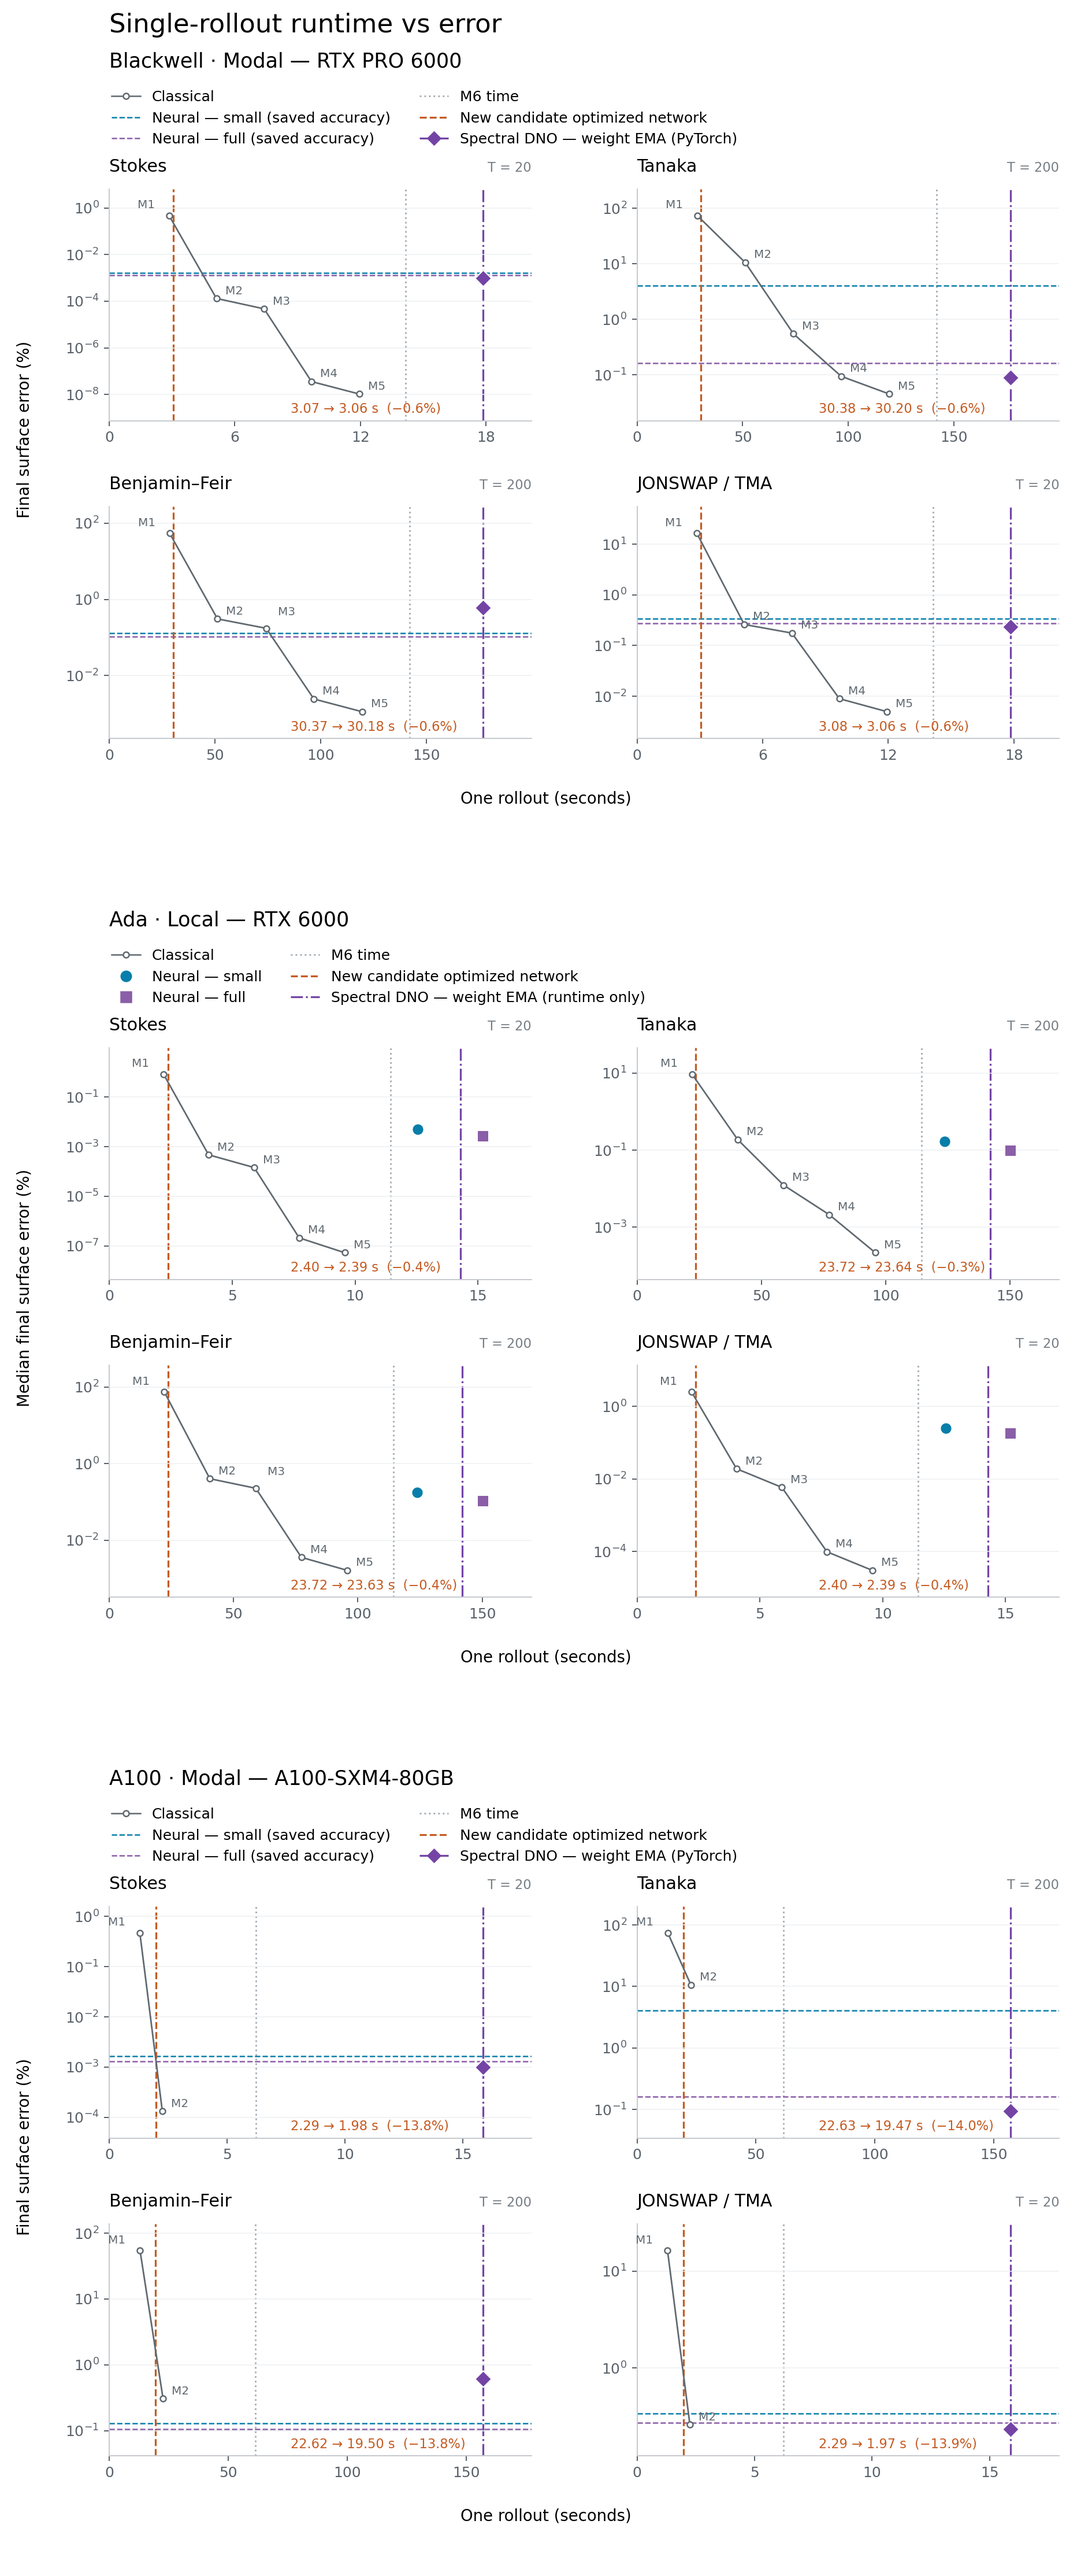
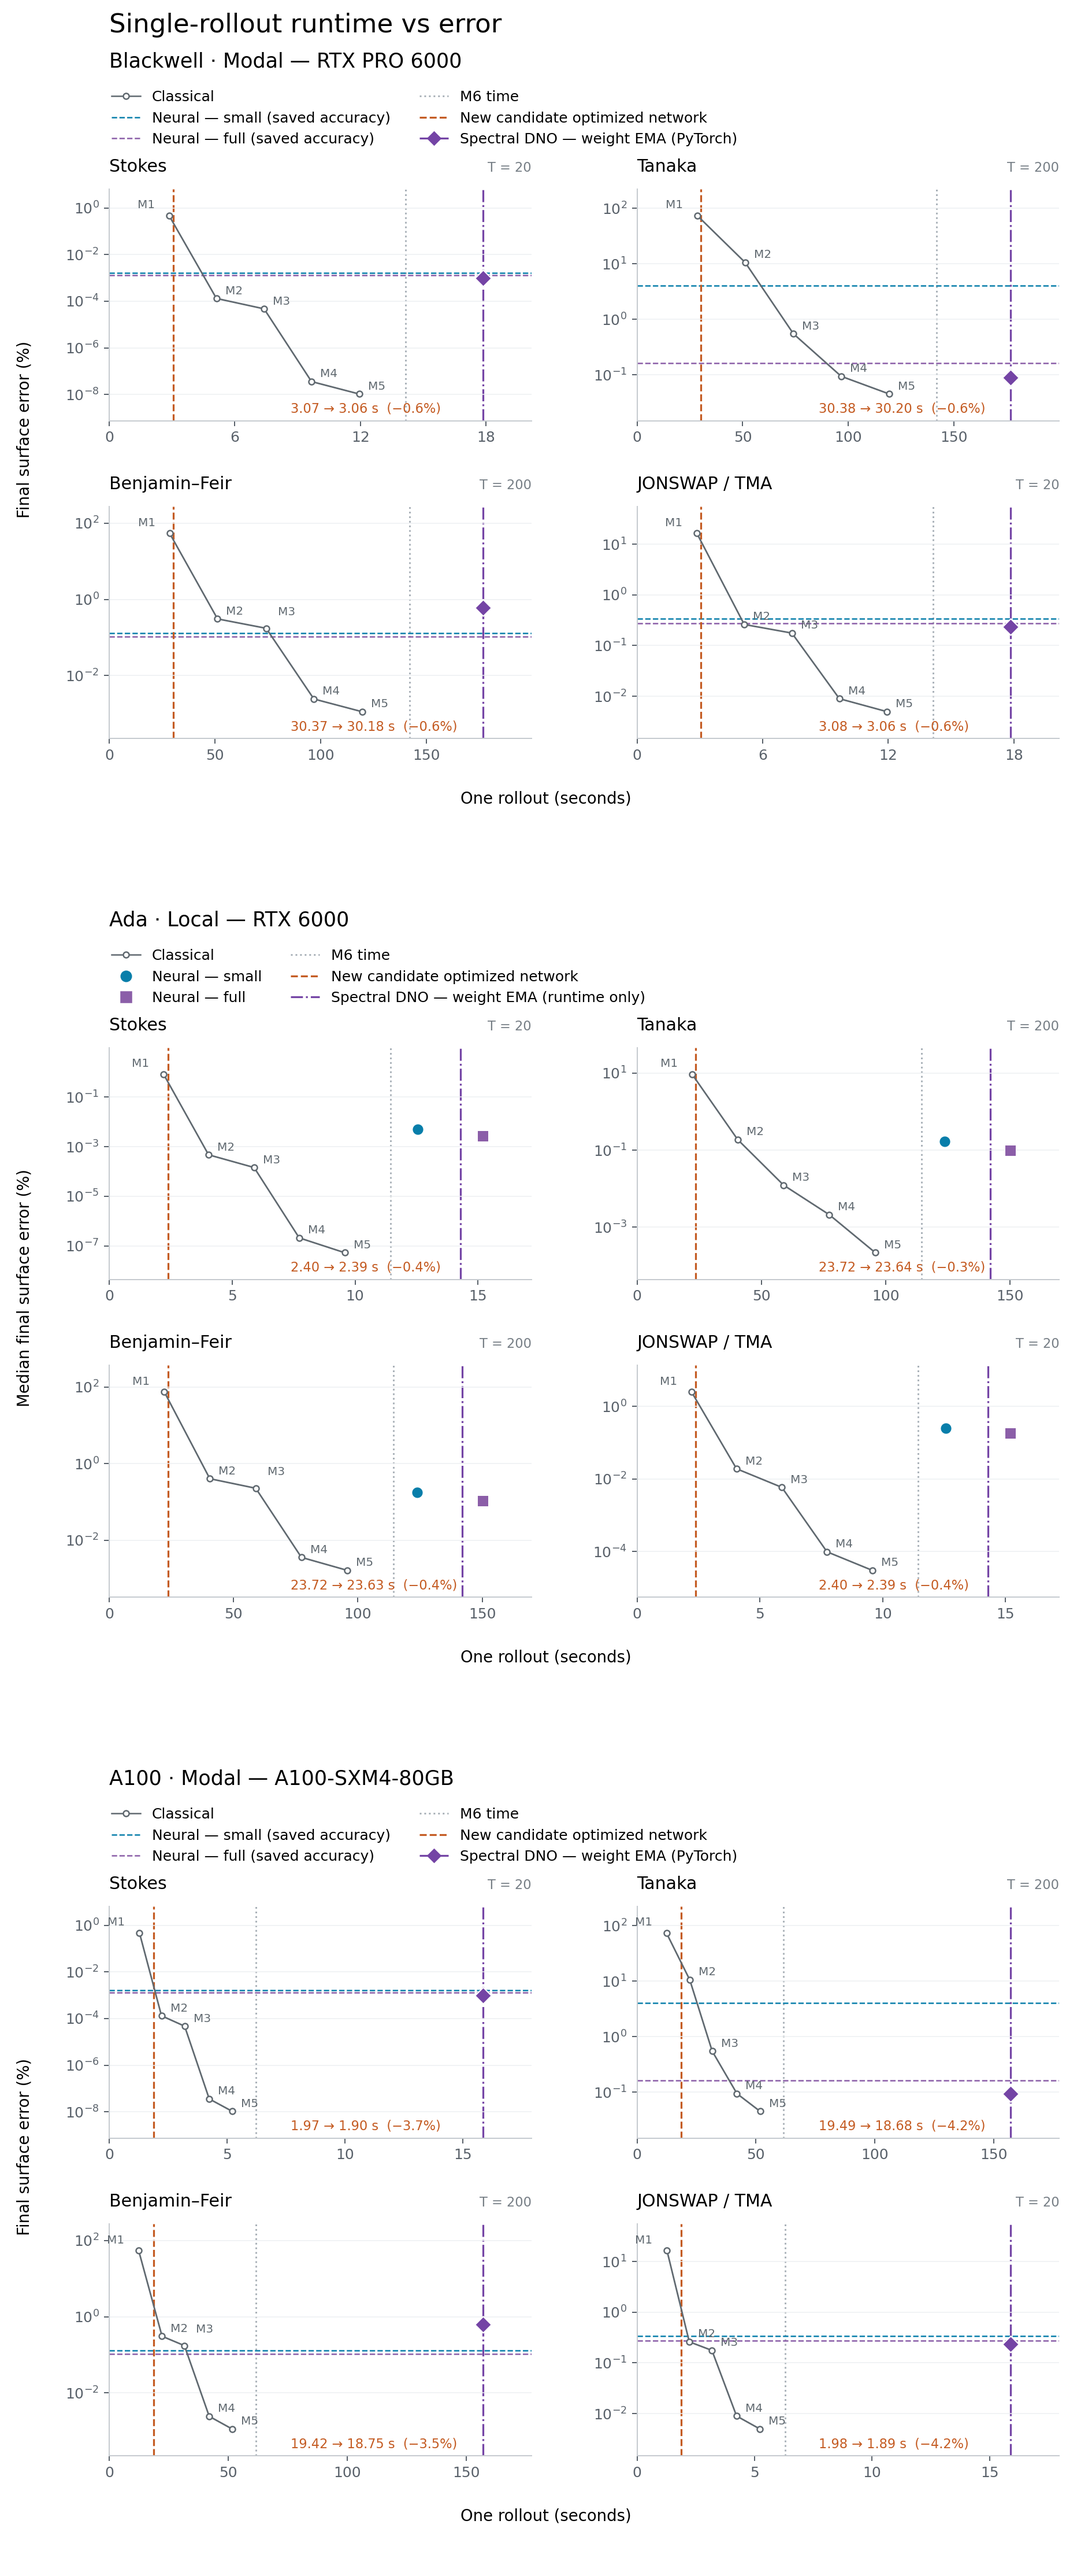
Add measured A100 M3-M5 results to Figure 12

diff --git a/paper-plots/plot_neural_advantage.py b/paper-plots/plot_neural_advantage.py
@@ -34,14 +34,18 @@ def draw_comparison(args: argparse.Namespace, fig: Figure | SubFigure, heading: 
         for path in args.classical_timings or ():
             for family, result in json.loads(path.read_text())["families"].items():
                 warm["families"].setdefault(family, result)["methods"].update(result["methods"])
+        for result in warm["families"].values():
+            result["methods"] = {name.removesuffix("_boundaries"): record
+                                 for name, record in result["methods"].items()}
     candidate = {"families": {}} if args.candidate_timings else {}
     for path in args.candidate_timings or ():
         for family, result in json.loads(path.read_text())["families"].items():
             candidate["families"].setdefault(family, result)["methods"].update(result["methods"])
     if args.stack_hardware:
         for family, result in candidate["families"].items():
-            for method in ("M1", "M2"):
-                warm["families"][family]["methods"][method]["seconds"] = result["methods"][method]["seconds"]
+            for method, record in result["methods"].items():
+                if method.removesuffix("_boundaries") in ("M1", "M2"):
+                    warm["families"][family]["methods"][method.removesuffix("_boundaries")]["seconds"] = record["seconds"]
     baseline_free = json.loads(args.no_baseline_timings.read_text()) if args.no_baseline_timings and not args.single_case else None
     spectral = {}
     for path in args.spectral_timings or ():
@@ -214,30 +218,32 @@ if __name__ == "__main__":
         modal.single_case = True
         a100 = argparse.Namespace(**vars(modal))
         for config, hardware in ((modal, "blackwell"), (args, "ada"), (a100, "a100")):
-            paths = ([ROOT / "outputs/fair_classical_20260925/ada_full.json"] if hardware == "ada" else [
-                ROOT / f"outputs/fair_classical_20260925/{hardware}_{family}/rollouts.json"
-                for family in ("short", "tanaka", "bf")
-            ])
-            if config.single_case:
-                config.timings = paths[0]
-            config.classical_timings = paths
-            config.candidate_timings = [ROOT / f"outputs/fourier_io_20260926/{hardware}_full/rollouts.json"]
-            config.candidate_timings += [ROOT / "outputs/fourier_ffts_20260926" / {
-                "ada": "ada_full.json", "blackwell": "blackwell_full/rollouts.json",
-                "a100": "a100_sxm_full/rollouts.json",
-            }[hardware]]
-            config.candidate_method = ("fourier_transforms_e16_spectral_all" if hardware == "ada"
-                                       else "fourier_transforms_spectral_all")
-            config.candidate_previous_method = "fourier_input_spectral_all"
-            if hardware != "a100":
-                config.candidate_previous_method = config.candidate_method
+            if hardware == "a100":
+                config.timings = ROOT / "outputs/portable_fusion_20260927/a100_full_sxm/classical.json"
+                config.classical_timings = None
+                config.candidate_timings = [ROOT / "outputs/portable_fusion_20260927/a100_full_sxm/rollouts.json"]
+                config.candidate_method = "fourier_fused_fields_spectral_all_boundaries"
+                config.candidate_previous_method = "fourier_transforms_spectral_all"
+            else:
+                paths = ([ROOT / "outputs/fair_classical_20260925/ada_full.json"] if hardware == "ada" else [
+                    ROOT / f"outputs/fair_classical_20260925/blackwell_{family}/rollouts.json"
+                    for family in ("short", "tanaka", "bf")
+                ])
+                if config.single_case:
+                    config.timings = paths[0]
+                config.classical_timings = paths
+                config.candidate_timings = [
+                    ROOT / f"outputs/fourier_io_20260926/{hardware}_full/rollouts.json",
+                    ROOT / "outputs/fourier_ffts_20260926" / (
+                        "ada_full.json" if hardware == "ada" else "blackwell_full/rollouts.json"),
+                    ROOT / "outputs/fourier_ept_20260926" / (
+                        "ada_mask_full.json" if hardware == "ada" else "blackwell_full/rollouts.json"),
+                ]
                 config.candidate_method = ("fourier_tuned_16_16_16_16_mask_spectral_all" if hardware == "ada"
                                            else "fourier_tuned_8_8_16_8_mask_spectral_all")
-                config.candidate_timings += [ROOT / "outputs/fourier_ept_20260926" / (
-                    "ada_mask_full.json" if hardware == "ada" else "blackwell_full/rollouts.json")]
+                config.candidate_previous_method = ("fourier_transforms_e16_spectral_all" if hardware == "ada"
+                                                    else "fourier_transforms_spectral_all")
             config.no_baseline_timings = None
-        a100.timings = a100.candidate_timings[0]
-        a100.classical_timings = None
         fig = plt.figure(figsize=(10.5, 24.75))
         fig.suptitle("Single-rollout runtime vs error", y=0.995, fontsize=18, ha="left", x=0.10)
         blackwell, ada, ampere = fig.subfigures(3, 1)

diff --git a/experiments/experiments-2026-09-27.md b/experiments/experiments-2026-09-27.md
@@ -2,3 +2,5 @@
 | --- | --- | --- | --- | --- | --- | --- | --- |
 | 2026-09-27 | 00:13 | Portable cuFFTDx field/input fusion and shared timestep FFT packing | Remove materialized field spectra and normalization traffic; combine independent eta/xi boundary transforms without changing weights, precision, or selecting different implementations by GPU. | Added benchmark-only multiplier-on-load inverse FFT, FP64 inverse with FP32 cast/normalization, and `_boundaries` variants for both neural and classical methods. Uniform EPT8 control `fourier_transforms`; batch1 N1024, dt0.01, four GL2 iterations, pad2. Full Stokes T20, three interleaved repeats on RTX6000 Ada, RTX PRO6000 Blackwell and A100-SXM4-80GB. Field-only saves 0.146/0.060/0.056%; input-only changes runtime +0.498/+1.130/-0.122%; combined field/input changes +0.495/+1.097/-0.340%. Boundary-only saves 1.211/1.674/1.760% neural and 1.104/1.730/3.202% M2, respectively. Data: `outputs/portable_fusion_20260927/{ada_stokes.json,blackwell_screen/stokes.json,a100_screen_sxm/stokes.json}`. | All three forward variants exactly match control across 48 states plus mixed/flat/zero inputs on all three chips; full Stokes neural eta/xi/Gxi also exact. Separate Ada M2 packing comparison exact; CPU packed-transform invariants max absolute 3.04e-14. Native normalization exact; random complex field-symbol relative differences <=5.32e-8. Ruff/Pyright pass. | 00:04–00:13; median control neural 2.402346/3.120887/1.971594s, boundary 2.373252/3.068653/1.936896s; M2 4.048335/5.133923/2.237381s to 4.003651/5.045118/2.165737s. Compilation/warm-up/transfers excluded. | Reject input fusion as a common speed optimization; field-only gain is inconclusive. Advance shared boundary packing. HLO review found an extra spectral re-stack in field prototype; test direct reuse before deciding on field fusion. No production/training edits. |
 | 2026-09-27 | 00:19 | Direct spectrum reuse plus field fusion and boundary packing | HLO showed that slicing and re-stacking normalized input spectra retained a copy launch, undercutting the field fusion. Reusing the original packed FFT output should remove it. | Passed the packed normalized spectrum directly to the fused field inverse. Ada model-only HLO fusion launches drop 15 to 14, with four FFI calls unchanged. Compared uniform-EPT8 control, boundary-only, field-plus-boundary, M2 and packed M2 in five interleaved full Stokes runs on each chip. Data: `outputs/portable_fusion_20260927/{ada_direct_stokes.json,blackwell_direct_screen/stokes.json,a100_direct_screen/stokes.json}` and adjacent forward reports. | Revised field fusion passes all 48-state/mixed/flat/zero checks exactly on all chips. Full Stokes eta/xi/Gxi outputs equal the neural control exactly. Classical boundary difference is zero. Ruff and Pyright pass after making the static normalized-spectrum typing explicit. | 00:12–00:16; Ada control/boundary/field+boundary 2.407475/2.375395/2.370302s; Blackwell 3.079963/2.997563/3.015437s; A100 SXM4 1.998263/1.960037/1.923574s. Bundle saves 1.54/2.10/3.74%, respectively. | Advance the same field-plus-boundary bundle on every chip, prioritizing the additional A100 gain. Field fusion adds ~1.86% over boundary-only on A100 and ~0.21% on Ada, but costs ~0.60% on Blackwell; the bundle remains faster than the common control on all three. Input fusion is excluded. Confirm all four full horizons and refresh every classical order with shared boundary packing. |
+| 2026-09-27 | 00:41 | Common EPT8 field-fusion/boundary bundle: full four-family confirmation | A short-family gain must persist through full T200 trajectories, with identical outputs and the shared optimization also applied to classical M2. | Three interleaved full single-rollout repeats of control, boundary-only, field-plus-boundary, M2 and packed M2 on each GPU: 180 timings, N1024, dt0.01, four GL2 iterations, pad2. Stokes/JONSWAP T20; Tanaka/BF T200. The same `fourier_fused_fields_spectral_all_boundaries` implementation and EPT8 on all chips. Sources under `outputs/portable_fusion_20260927/`: `ada_full.json`, `blackwell_full/rollouts.json`, `a100_full_sxm/rollouts.json`. | Every saved eta/xi/Gxi output of both neural variants exactly equals its paired control on all 12 GPU/family combinations. Packed M2 equals original M2 exactly too. All outputs finite with positive fluid depth. Weights, input rounding, analytic G0/G1 and precisions unchanged; no training. | 00:16–00:41. In Stokes/Tanaka/BF/JON order, Ada control [2.406707,23.864496,23.868106,2.408177]s to [2.370620,23.493617,23.492956,2.372854]s (1.47–1.57% less); Blackwell [3.081646,30.428737,30.424878,3.077611]s to [3.026221,29.923435,29.927444,3.027152]s (1.64–1.80% less); A100 [1.969713,19.485194,19.420283,1.975171]s to [1.896872,18.675866,18.746894,1.892359]s (3.47–4.19% less). Candidate is 14.53–15.81% faster than packed M2 on A100; about 41% on Ada and 40% on Blackwell. Compilation, warm-up and transfers excluded. | KEEP the common benchmark inference bundle. Reject input-normalization fusion as a common optimization. Update Figure12 with paired control-to-candidate savings; preserve trained-model accuracy markers and EMA overlays. Shared packing must also appear in the fresh M1–M6 classical timings, running separately. |
+| 2026-09-27 | 00:50 | A100 packed M1–M6 sweep and Figure12 update | A100 lacked plotted M3–M5 points, and every classical order must receive the shared timestep FFT packing used by the candidate. | Completed 24 measured full single rollouts, one per order/family, on A100-SXM4-80GB; source `outputs/portable_fusion_20260927/a100_full_sxm/classical.json`. Added M3–M5 to all four A100 panels, refreshed A100 M1/M6 and candidate timings, and used the paired three-repeat packed M2 median. Saved both Figure12 PNG/PDF; retained Ada/Blackwell panels while their all-order sweeps finish. | All classical outputs finite with positive depth; maximum M6 cached-reference eta discrepancy <=5.08e-12. Plot/data reviewed independently; all five classical error points, M6 timing line, trained accuracy references and EMA overlays present. Pixel comparison confirms the upper two hardware sections are exactly unchanged. Ruff/Pyright pass. | Classical sweep 00:32–00:42; plot update 00:47–00:50. M3/M4/M5 seconds: Stokes [3.200625,4.244914,5.223112], Tanaka [31.611468,42.017906,51.754909], BF [31.602976,42.026772,51.680963], JON [3.188059,4.237053,5.232802]. | KEEP measured A100 results and rendered Figure12. Ada/Blackwell all-order refresh remains pending; no inferred or extrapolated timings added. |

diff --git a/paper-plots/README.md b/paper-plots/README.md
@@ -196,22 +196,28 @@ is saved under `outputs/torch_ema_20260926/evaluation/` (128/128 finite).
 These timings use BF16/FP32 neural inference, FP64 integration, and a reusable
 CUDA graph of the unchanged GL2 step; capture and warm-up are excluded.
 
-The latest Ada line uses `fourier_tuned_16_16_16_16_mask_spectral_all`: the
-same FFT settings with an elementwise output mask replacing two endpoint
-updates. Blackwell uses `fourier_tuned_8_8_16_8_mask_spectral_all`, additionally
-setting the packed-field inverse FFT to 16 elements per thread. Their new
-annotations compare against the preceding candidate in the same three-repeat,
-four-family runs, saved under `outputs/fourier_ept_20260926/ada_mask_full.json`
-and `blackwell_full/rollouts.json`. Classical times, trained-model accuracies
-and the entire A100 row are unchanged. The A100 trial's 0.10–0.24% runtime
-reduction was not adopted because of the added long-rollout numerical changes.
-The retained gains are 0.31–0.40% on Ada and 0.57–0.65% on Blackwell. Ada's
-saved eta/xi/Gxi outputs are identical to its paired control; Blackwell's
-largest terminal eta change is 0.01416%. Complete trials and decisions are
-recorded in `notes/dno_profile_20260924.md`.
+The A100 panel now uses `fourier_fused_fields_spectral_all_boundaries`,
+with EPT8 throughout, and includes measured M1–M6 timings in all four families.
+It forms the learned surface/branch multipliers inside their inverse FFT
+and packs eta/xi timestep-boundary transforms. The latter also applies to
+every classical order. Input-normalization fusion was tested but excluded
+because it did not improve runtime consistently across the GPUs.
+Annotations compare the candidate against `fourier_transforms_spectral_all`
+in the same three-repeat, four-family benchmark, not against the earlier
+device-specific settings. Sources are under `outputs/portable_fusion_20260927/`:
+`ada_full.json`, `blackwell_full/rollouts.json`, and
+`a100_full_sxm/rollouts.json`. A100 classical M1–M6 use one fresh full-rollout
+measurement each from `a100_full_sxm/classical.json`; M2 uses the three-repeat
+packed median from the paired run. Ada and Blackwell panels retain their
+preceding measurements while their new all-order classical sweeps finish.
+The common bundle reduces full-rollout runtime by 1.47–1.57% on Ada,
+1.64–1.80% on Blackwell, and 3.47–4.19% on A100. Saved neural eta/xi/Gxi
+outputs are identical to the paired control in every family on every GPU.
+Trained-model accuracy references and EMA overlays are retained. Trial
+details and decisions are in `experiments/experiments-2026-09-27.md`.
 
 The preceding FFT round used `fourier_transforms_e16_spectral_all` on Ada and
-`fourier_transforms_spectral_all` on Blackwell/A100; A100 retains this version.
+`fourier_transforms_spectral_all` on Blackwell/A100.
 These replace the network's
 FP64 G1 input forward FFT and packed FP32 field inverse FFT with cuFFTDx;
 the original FP32 input forward FFT, weights and G0/G1 formulation are retained.

diff --git a/EXPERIMENTS.md b/EXPERIMENTS.md
@@ -33,11 +33,11 @@ could not be recovered at all are in
 
 ## Dated logs
 
-79 files, 1101 rows.
+79 files, 1103 rows.
 
 | Date | Rows | File | Size |
 | --- | --- | --- | --- |
-| 2026-09-27 | 2 | [`experiments/experiments-2026-09-27.md`](experiments/experiments-2026-09-27.md) | 4 KB |
+| 2026-09-27 | 4 | [`experiments/experiments-2026-09-27.md`](experiments/experiments-2026-09-27.md) | 7 KB |
 | 2026-09-26 | 19 | [`experiments/experiments-2026-09-26.md`](experiments/experiments-2026-09-26.md) | 30 KB |
 | 2026-09-25 | 19 | [`experiments/experiments-2026-09-25.md`](experiments/experiments-2026-09-25.md) | 28 KB |
 | 2026-09-24 | 19 | [`experiments/experiments-2026-09-24.md`](experiments/experiments-2026-09-24.md) | 33 KB |
